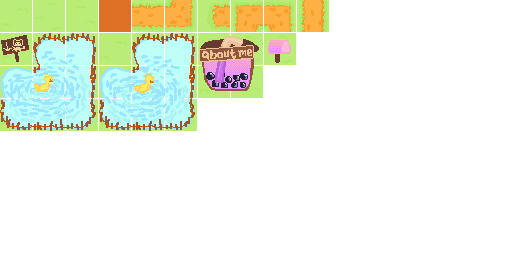
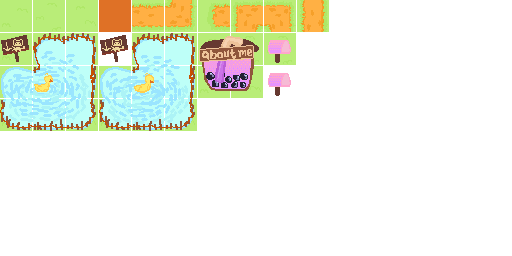
overlay?

Changed region(s): [[0.1875, 0.125, 0.2812, 0.2812], [0.5, 0.2812, 0.5938, 0.375]]

diff --git a/public/sketch.js b/public/sketch.js
@@ -16,8 +16,18 @@ let map = [
     [2, 1, 2, 1, 1, 1, 1, 3, 1, 1, 2, 1, 3, 1, 1, 1, 1, 1, 1, 1]
 ];
 
+let map_stuff = [
+    [20, 20, 20, 20, 20, 20, 20, 20, 20, 20, 20, 20, 20, 20, 20, 20, 20, 20, 20, 20],
+    [20, 20, 29, 20, 20, 20, 20, 20, 20, 20, 20, 20, 20, 20, 20, 20, 20, 20, 20, 20],
+    [20, 20, 20, 20, 20, 20, 14, 20, 20, 20, 20, 20, 20, 20, 20, 20, 20, 20, 20, 20],
+    [20, 20, 20, 20, 20, 20, 20, 20, 20, 20, 20, 20, 20, 20, 20, 20, 20, 20, 20, 20],
+    [20, 20, 20, 20, 20, 20, 20, 20, 20, 20, 20, 20, 20, 20, 20, 20, 20, 20, 20, 20],
+    [20, 20, 20, 20, 20, 20, 20, 20, 20, 20, 20, 20, 20, 20, 20, 20, 20, 20, 20, 20],
+    [20, 20, 20, 20, 20, 20, 20, 20, 20, 20, 20, 20, 20, 20, 20, 20, 20, 20, 20, 20]
+]
+
 let col_list = [22, 23, 24, 25, 31, 32, 33, 34, 35, 36, 12, 13, 15, 16, 4, 17, 18];
-let inte_list = [27, 28, 29, 19];
+let inte_list = [27, 28, 29, 19, 11];
 
 let cameraX = -300;
 let cameraY = 0;
@@ -63,6 +73,7 @@ function setup() {
     noSmooth();
 
     tilemap = new Tilemap([0, 0], [5000, 5000], [32, 32], texture, []);
+    items = new Tilemap([0, 0], [5000, 5000], [32, 32], texture, []);
 
     for (let i = 0; i < 10; i++)
         for (let j = 0; j < 10; j++)
@@ -71,6 +82,16 @@ function setup() {
     for (let y = 0; y < map.length; y++) {
         for (let x = 0; x < map[y].length; x++) {
             tilemap.tilemap[x][y] = map[y][x];
+        }
+    }
+
+    for (let i = 0; i < 10; i++)
+        for (let j = 0; j < 10; j++)
+            items.tiles.push([j * 33, i * 33, 32, 32])
+
+    for (let y = 0; y < map_stuff.length; y++) {
+        for (let x = 0; x < map_stuff[y].length; x++) {
+            items.tilemap[x][y] = map_stuff[y][x];
         }
     }
 
@@ -114,7 +135,7 @@ function moveCharacter() {
 
 
     if (keyIsDown("W".charCodeAt(0))) {
-        if (!isCollidingTile(0, -34) && !isCollidingInteractable(0, 40)) {
+        if (!isCollidingTile(0, -34) && !isCollidingInteractable(0, -20)) {
             cameraY -= camYSpeed;
         }
 
@@ -122,11 +143,7 @@ function moveCharacter() {
     }
 
     if (keyIsDown("S".charCodeAt(0))) {
-        if (!isCollidingTile(0, 34) && !isCollidingInteractable(0, 40)) {
-            cameraY += camYSpeed;
-        }
-
-        if (isCollidingInteractable(0, 40)) {
+        if (!isCollidingTile(0, 34) && !isCollidingInteractable(0, 20)) {
             cameraY += camYSpeed;
         }
 
@@ -138,7 +155,7 @@ function moveCharacter() {
             cameraX -= camXSpeed;
         }
 
-        if (isCollidingInteractable(0, 40)) {
+        if (isCollidingInteractable(0, 0)) {
             cameraX -= camXSpeed;
         }
 
@@ -151,7 +168,7 @@ function moveCharacter() {
             cameraX += camXSpeed;
         }
 
-        if (isCollidingInteractable(0, 40)) {
+        if (isCollidingInteractable(0, 0)) {
             cameraX += camXSpeed;
         }
 
@@ -165,6 +182,7 @@ function moveCharacter() {
     }
 
     tilemap.pos = [-cameraX, -cameraY];
+    items.pos = [-cameraX, -cameraY];
 }
 
 function drawPlayer(x, y, costume) {
@@ -196,6 +214,9 @@ function draw() {
     } else if (player_state === 'right') {
         drawPlayer(playerX, playerY, player_right[player_cos]);
     }
+
+    items.display();
+
 
     if (pool_state) {
         map[2] = [1, 7, 5, 5, 5, 6, 11, 15, 16, 10, 1, 1, 2, 1, 1, 3, 1, 1, 1, 1]
